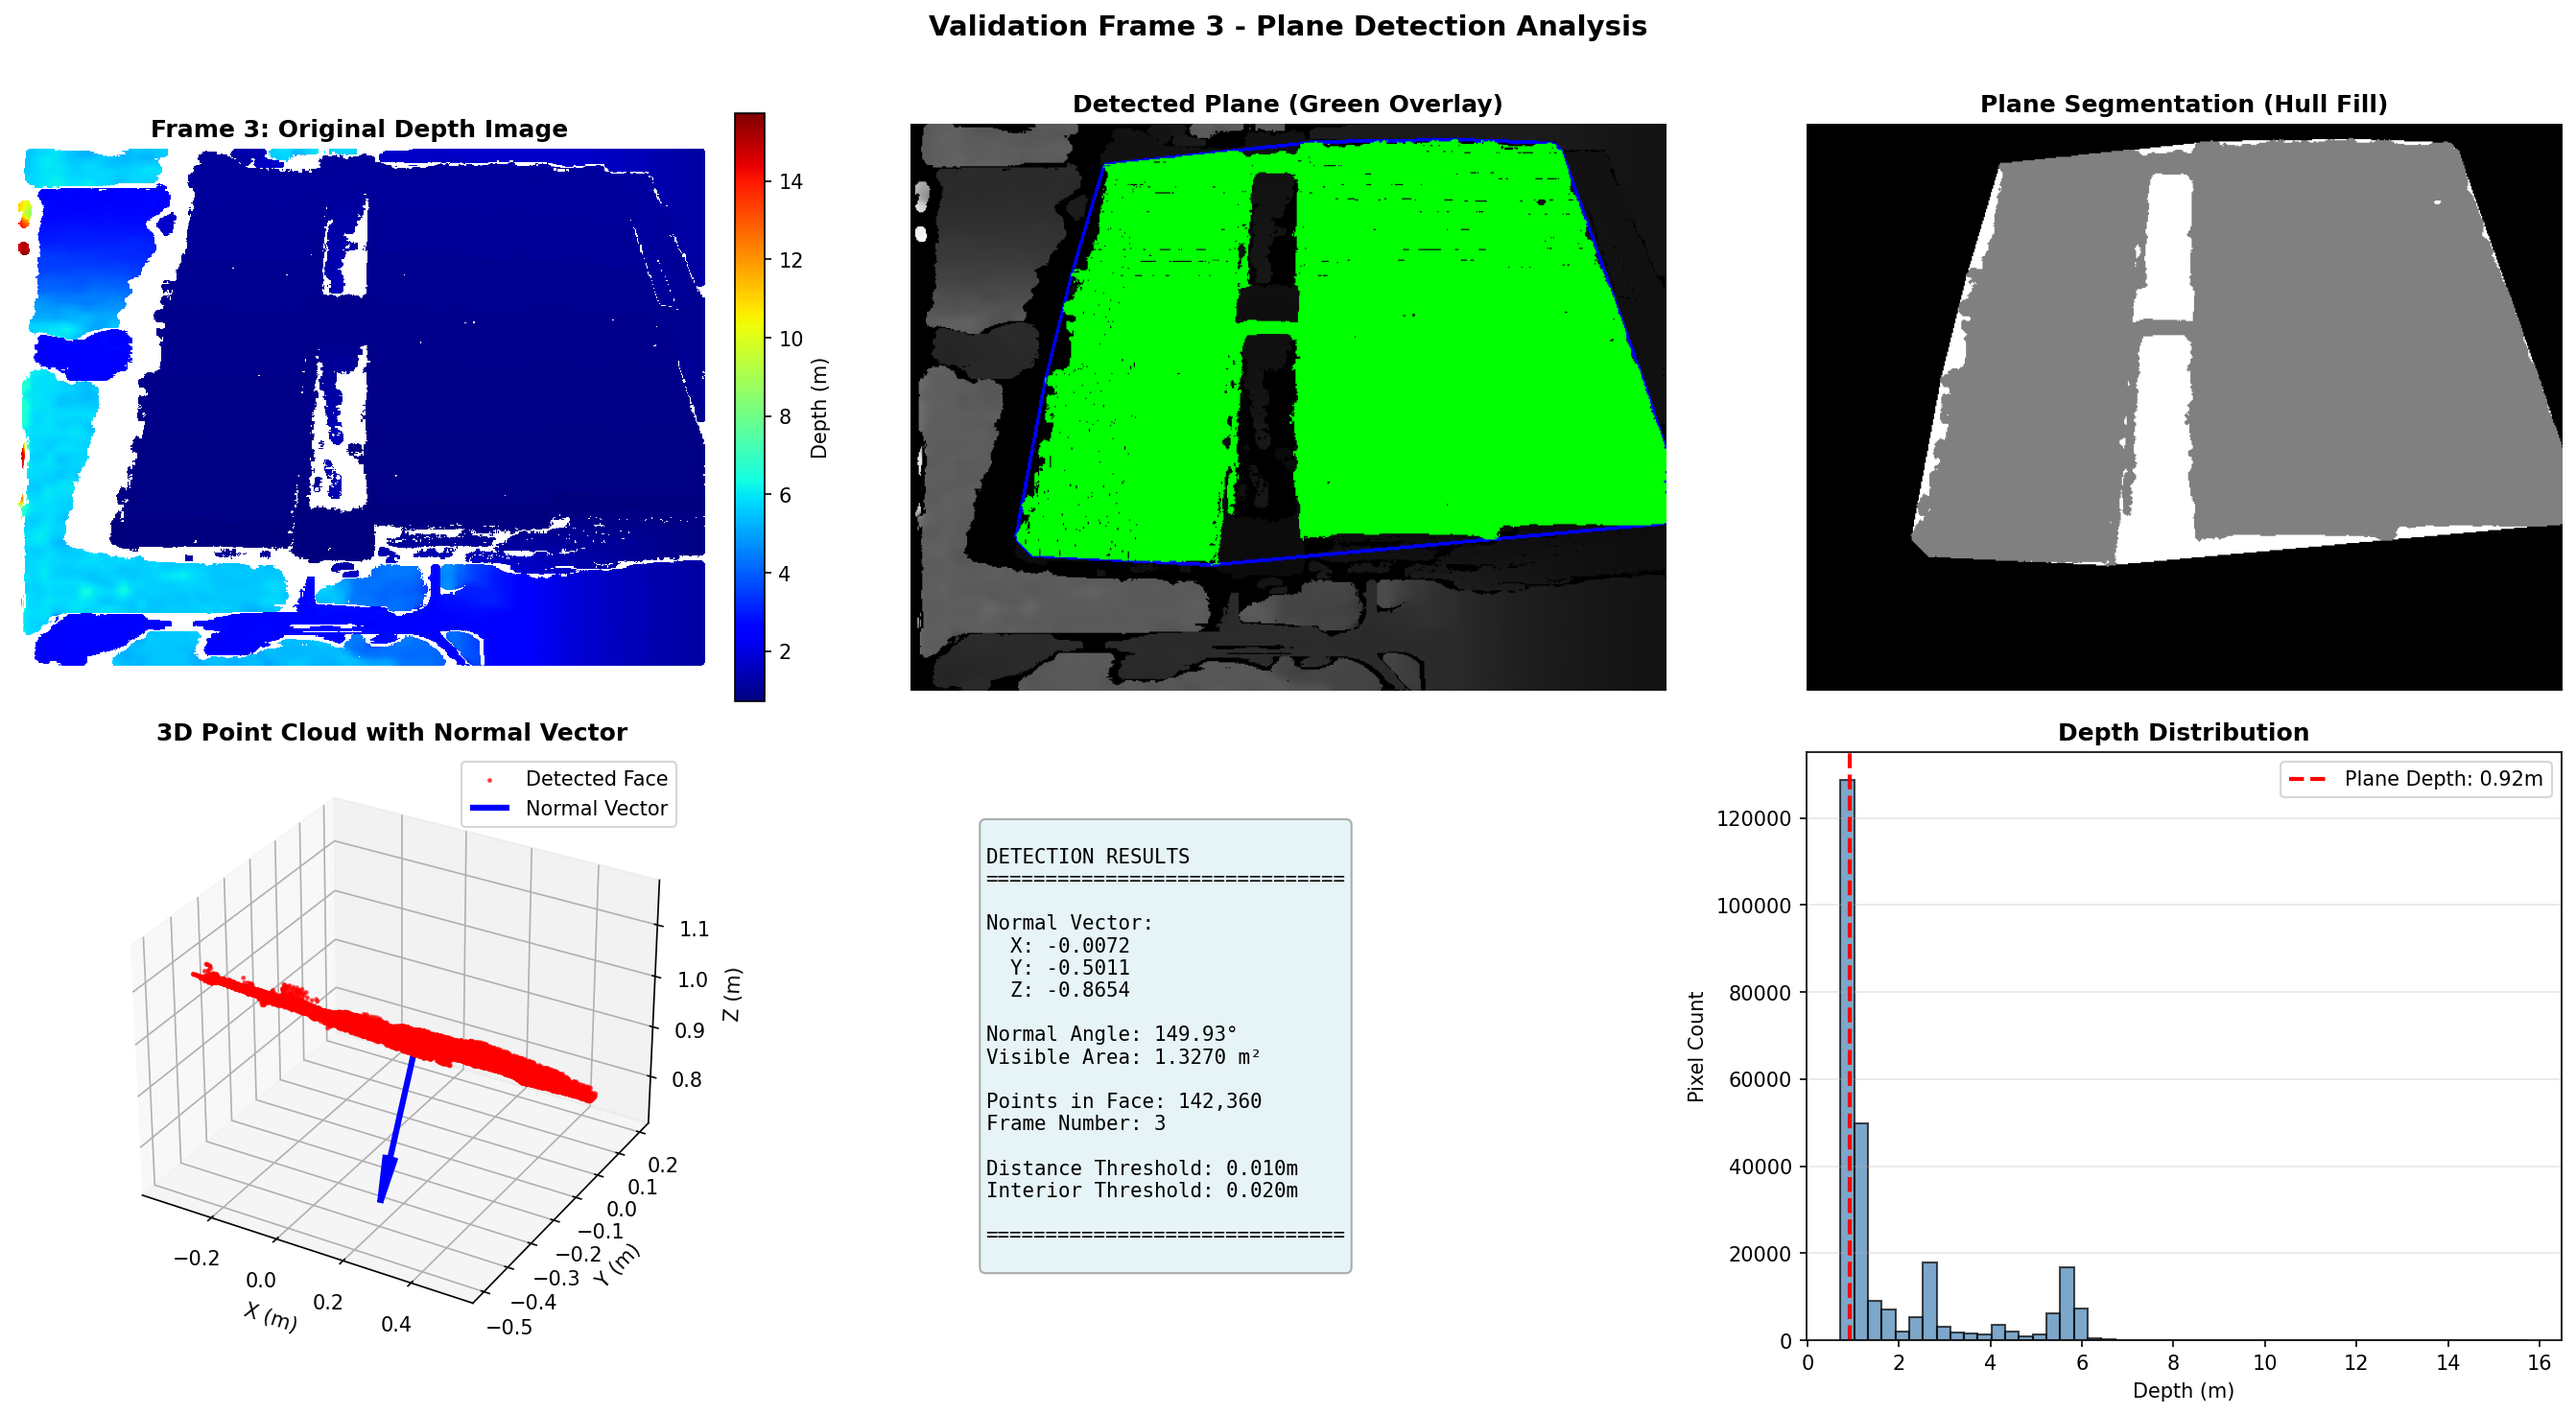
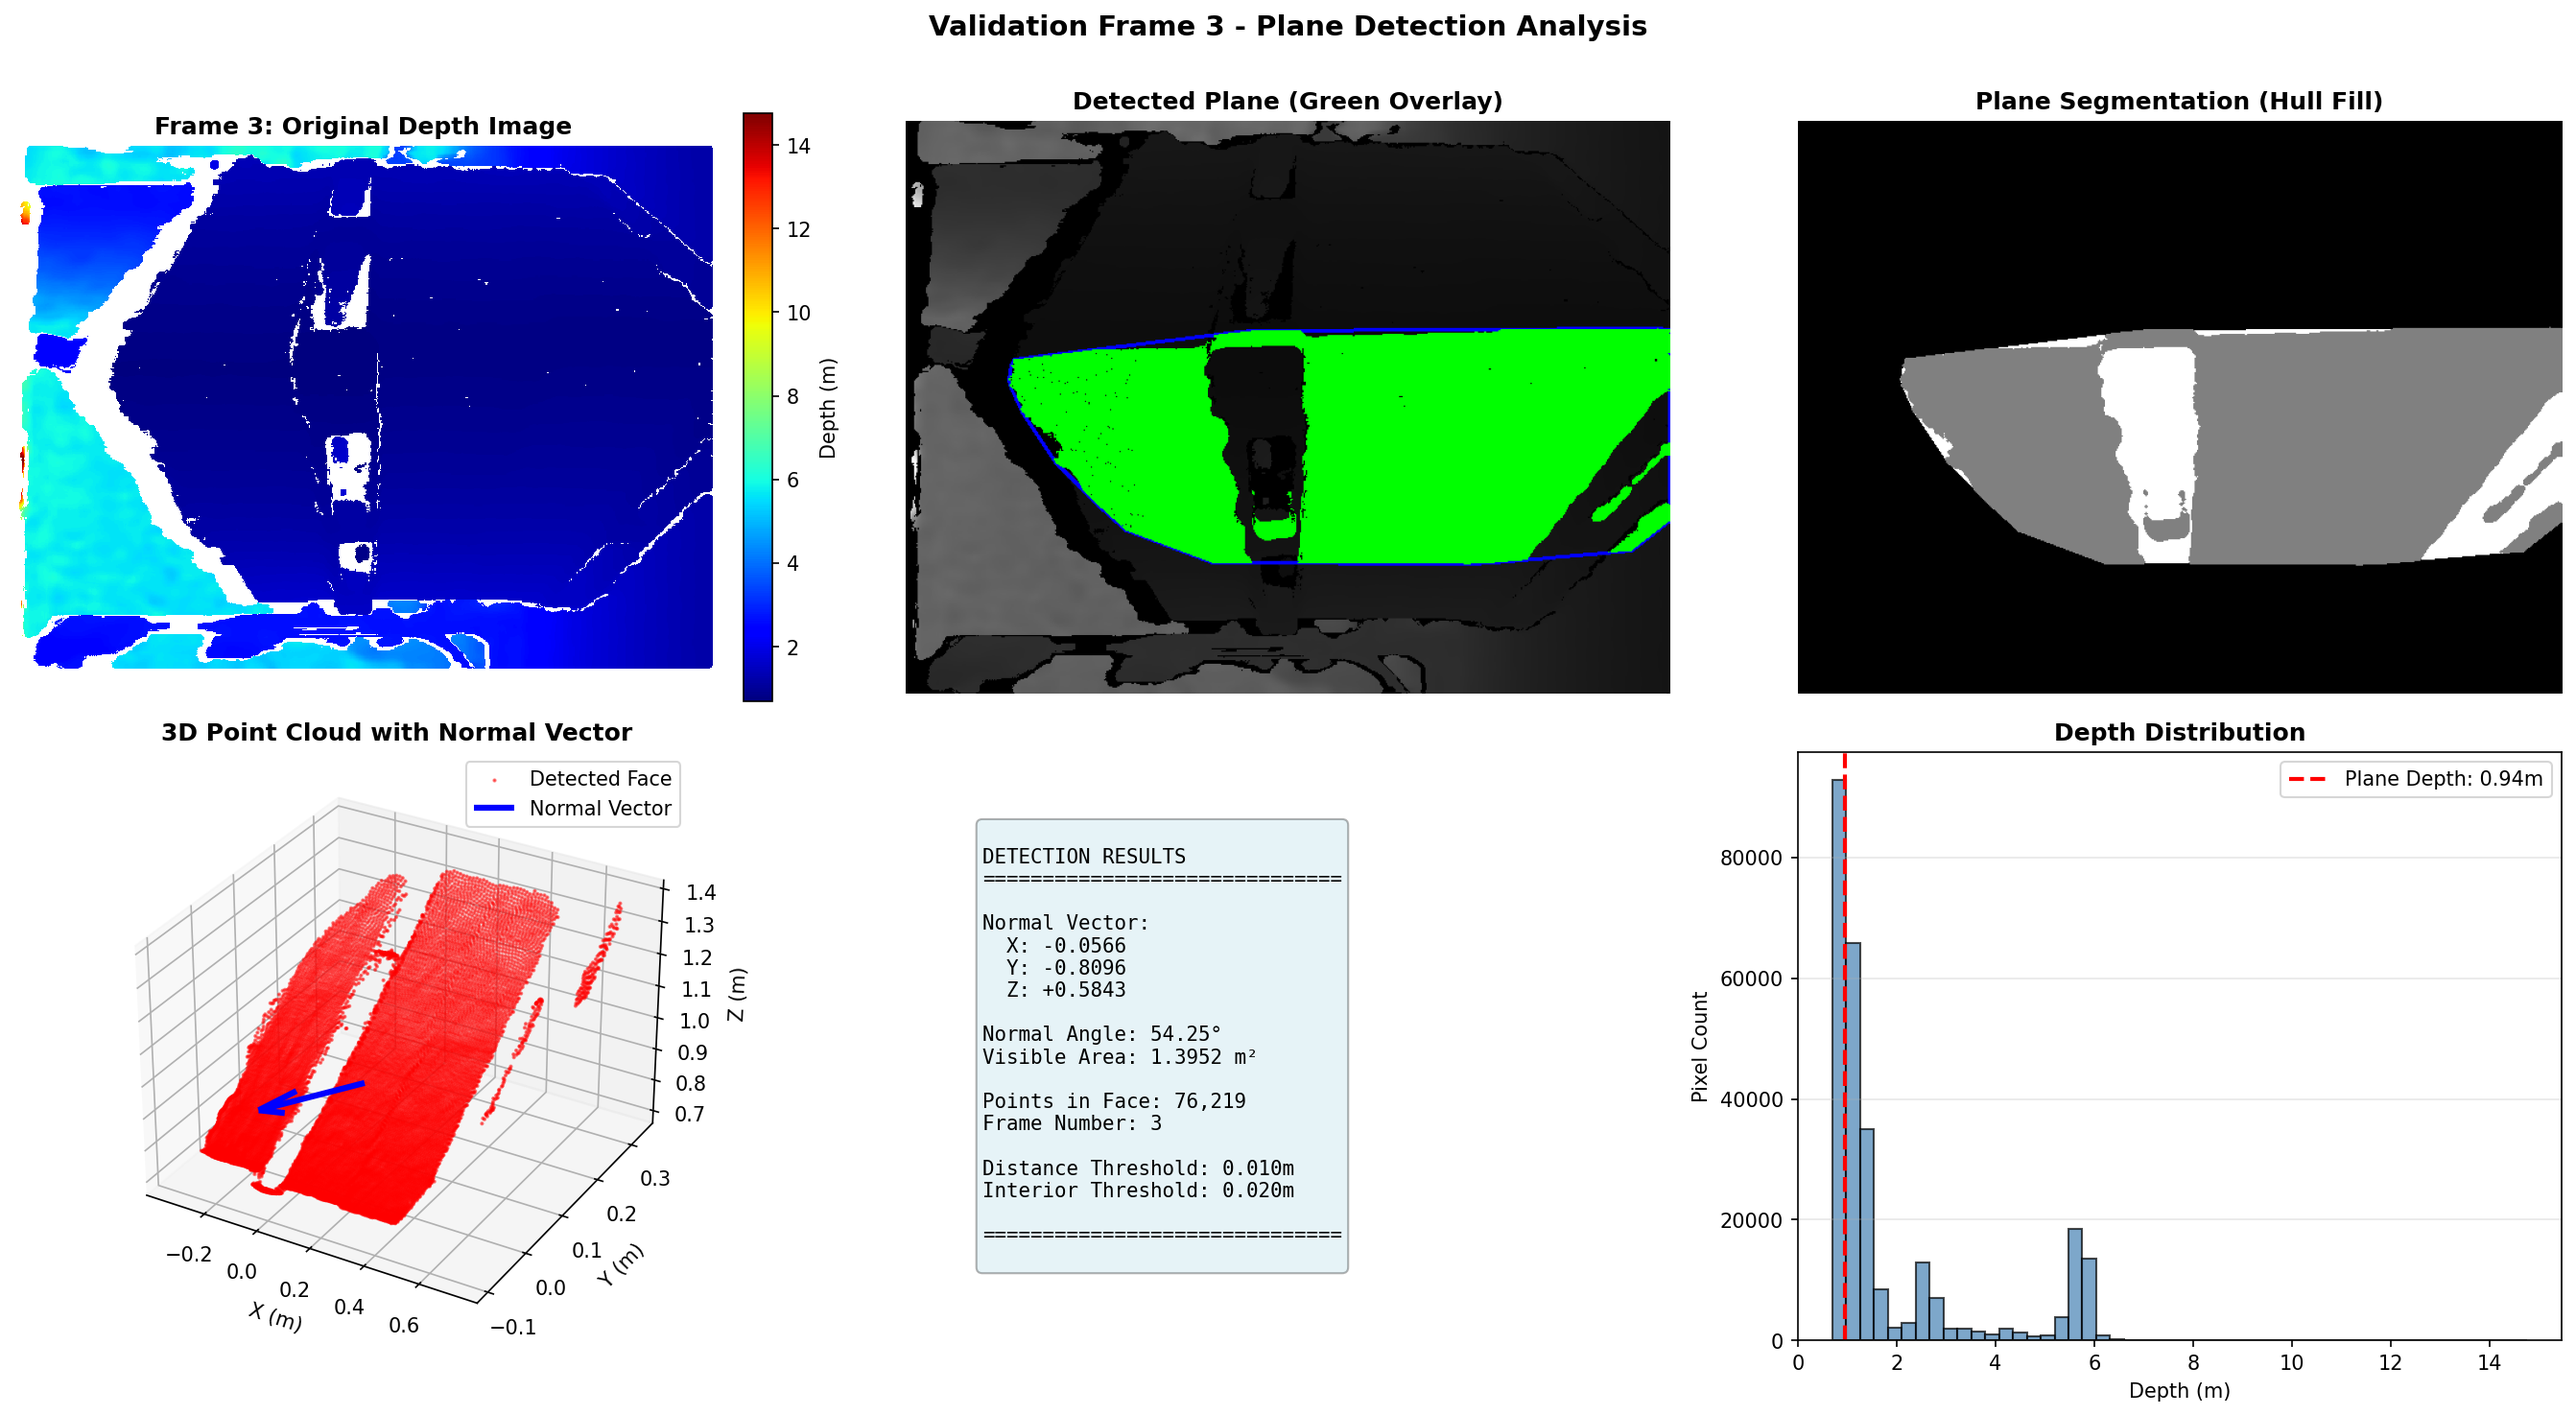
fix: Normal Vector orientation

diff --git a/final.py b/final.py
@@ -203,7 +203,7 @@ class CuboidAnalysisNode(Node):
             self.get_logger().warn("No valid clusters found in plane inliers")
             a, b, c, d = plane_model
             normal = np.array([a, b, c]) / np.linalg.norm([a, b, c])
-            if np.dot(normal, np.array([0, 0, 1])) > 0:
+            if np.dot(normal, np.array([0, 0, 1])) < 0:
                 normal = -normal
             return normal, pcd.select_by_index(initial_inliers), len(initial_inliers)
 
@@ -223,7 +223,7 @@ class CuboidAnalysisNode(Node):
 
         a, b, c, d = plane_model
         normal = np.array([a, b, c]) / np.linalg.norm([a, b, c])
-        if np.dot(normal, np.array([0, 0, 1])) > 0:
+        if np.dot(normal, np.array([0, 0, 1])) < 0:
             normal = -normal
 
         inlier_points = np.asarray(refined_cloud.points)
@@ -248,7 +248,7 @@ class CuboidAnalysisNode(Node):
             # Fallback to original RANSAC result
             a, b, c, d = plane_model
             normal = np.array([a, b, c]) / np.linalg.norm([a, b, c])
-            if np.dot(normal, np.array([0, 0, 1])) > 0:
+            if np.dot(normal, np.array([0, 0, 1])) < 0:
                 normal = -normal
             return normal, pcd.select_by_index(initial_inliers), len(initial_inliers)
 
@@ -265,7 +265,7 @@ class CuboidAnalysisNode(Node):
             # Fallback if convex hull fails
             a, b, c, d = plane_model
             normal = np.array([a, b, c]) / np.linalg.norm([a, b, c])
-            if np.dot(normal, np.array([0, 0, 1])) > 0:
+            if np.dot(normal, np.array([0, 0, 1])) < 0:
                 normal = -normal
             return normal, pcd.select_by_index(initial_inliers), len(initial_inliers)
 
@@ -297,7 +297,7 @@ class CuboidAnalysisNode(Node):
 
         # Step 5: Extract plane normal and create final point cloud
         normal = np.array([a, b, c]) / np.linalg.norm([a, b, c])
-        if np.dot(normal, np.array([0, 0, 1])) > 0:
+        if np.dot(normal, np.array([0, 0, 1])) < 0:
             normal = -normal
 
         if interior_indices:

diff --git a/utils.py b/utils.py
@@ -138,8 +138,8 @@ def create_validation_visualization(
         sampled_points[:, 1],
         sampled_points[:, 2],
         c="red",
-        s=2,
-        alpha=0.6,
+        s=1,
+        alpha=0.5,
         label="Detected Face",
     )
 
